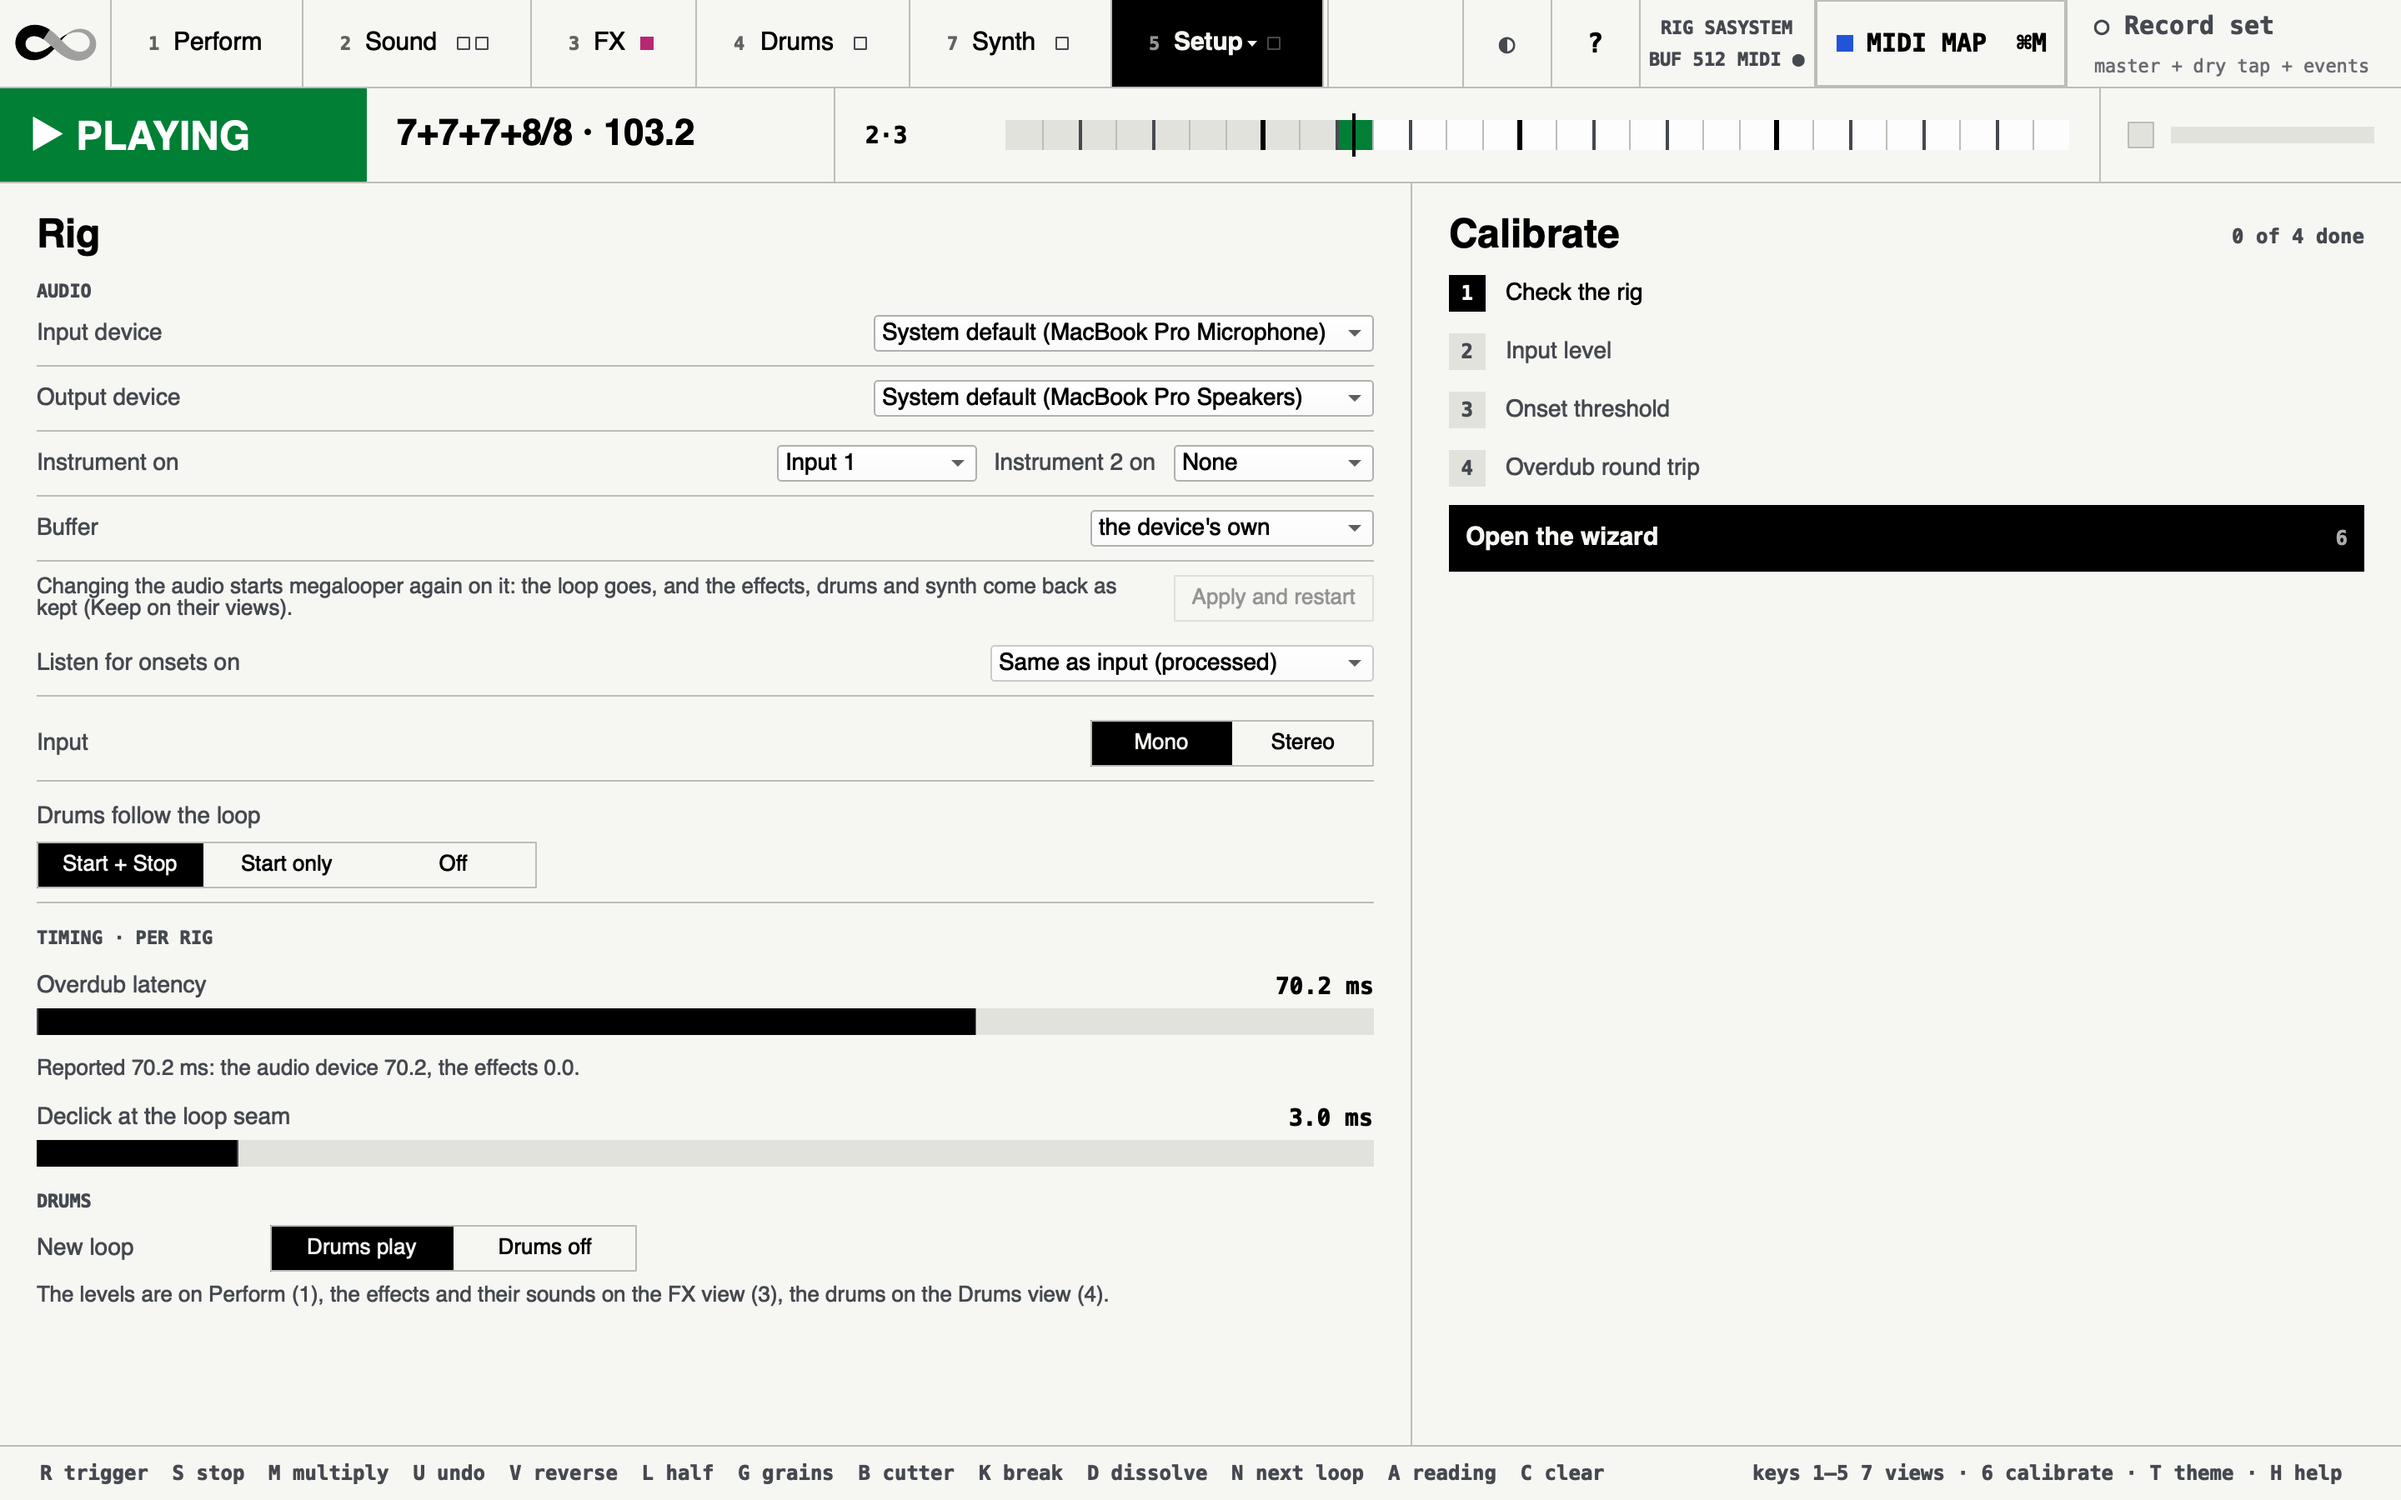
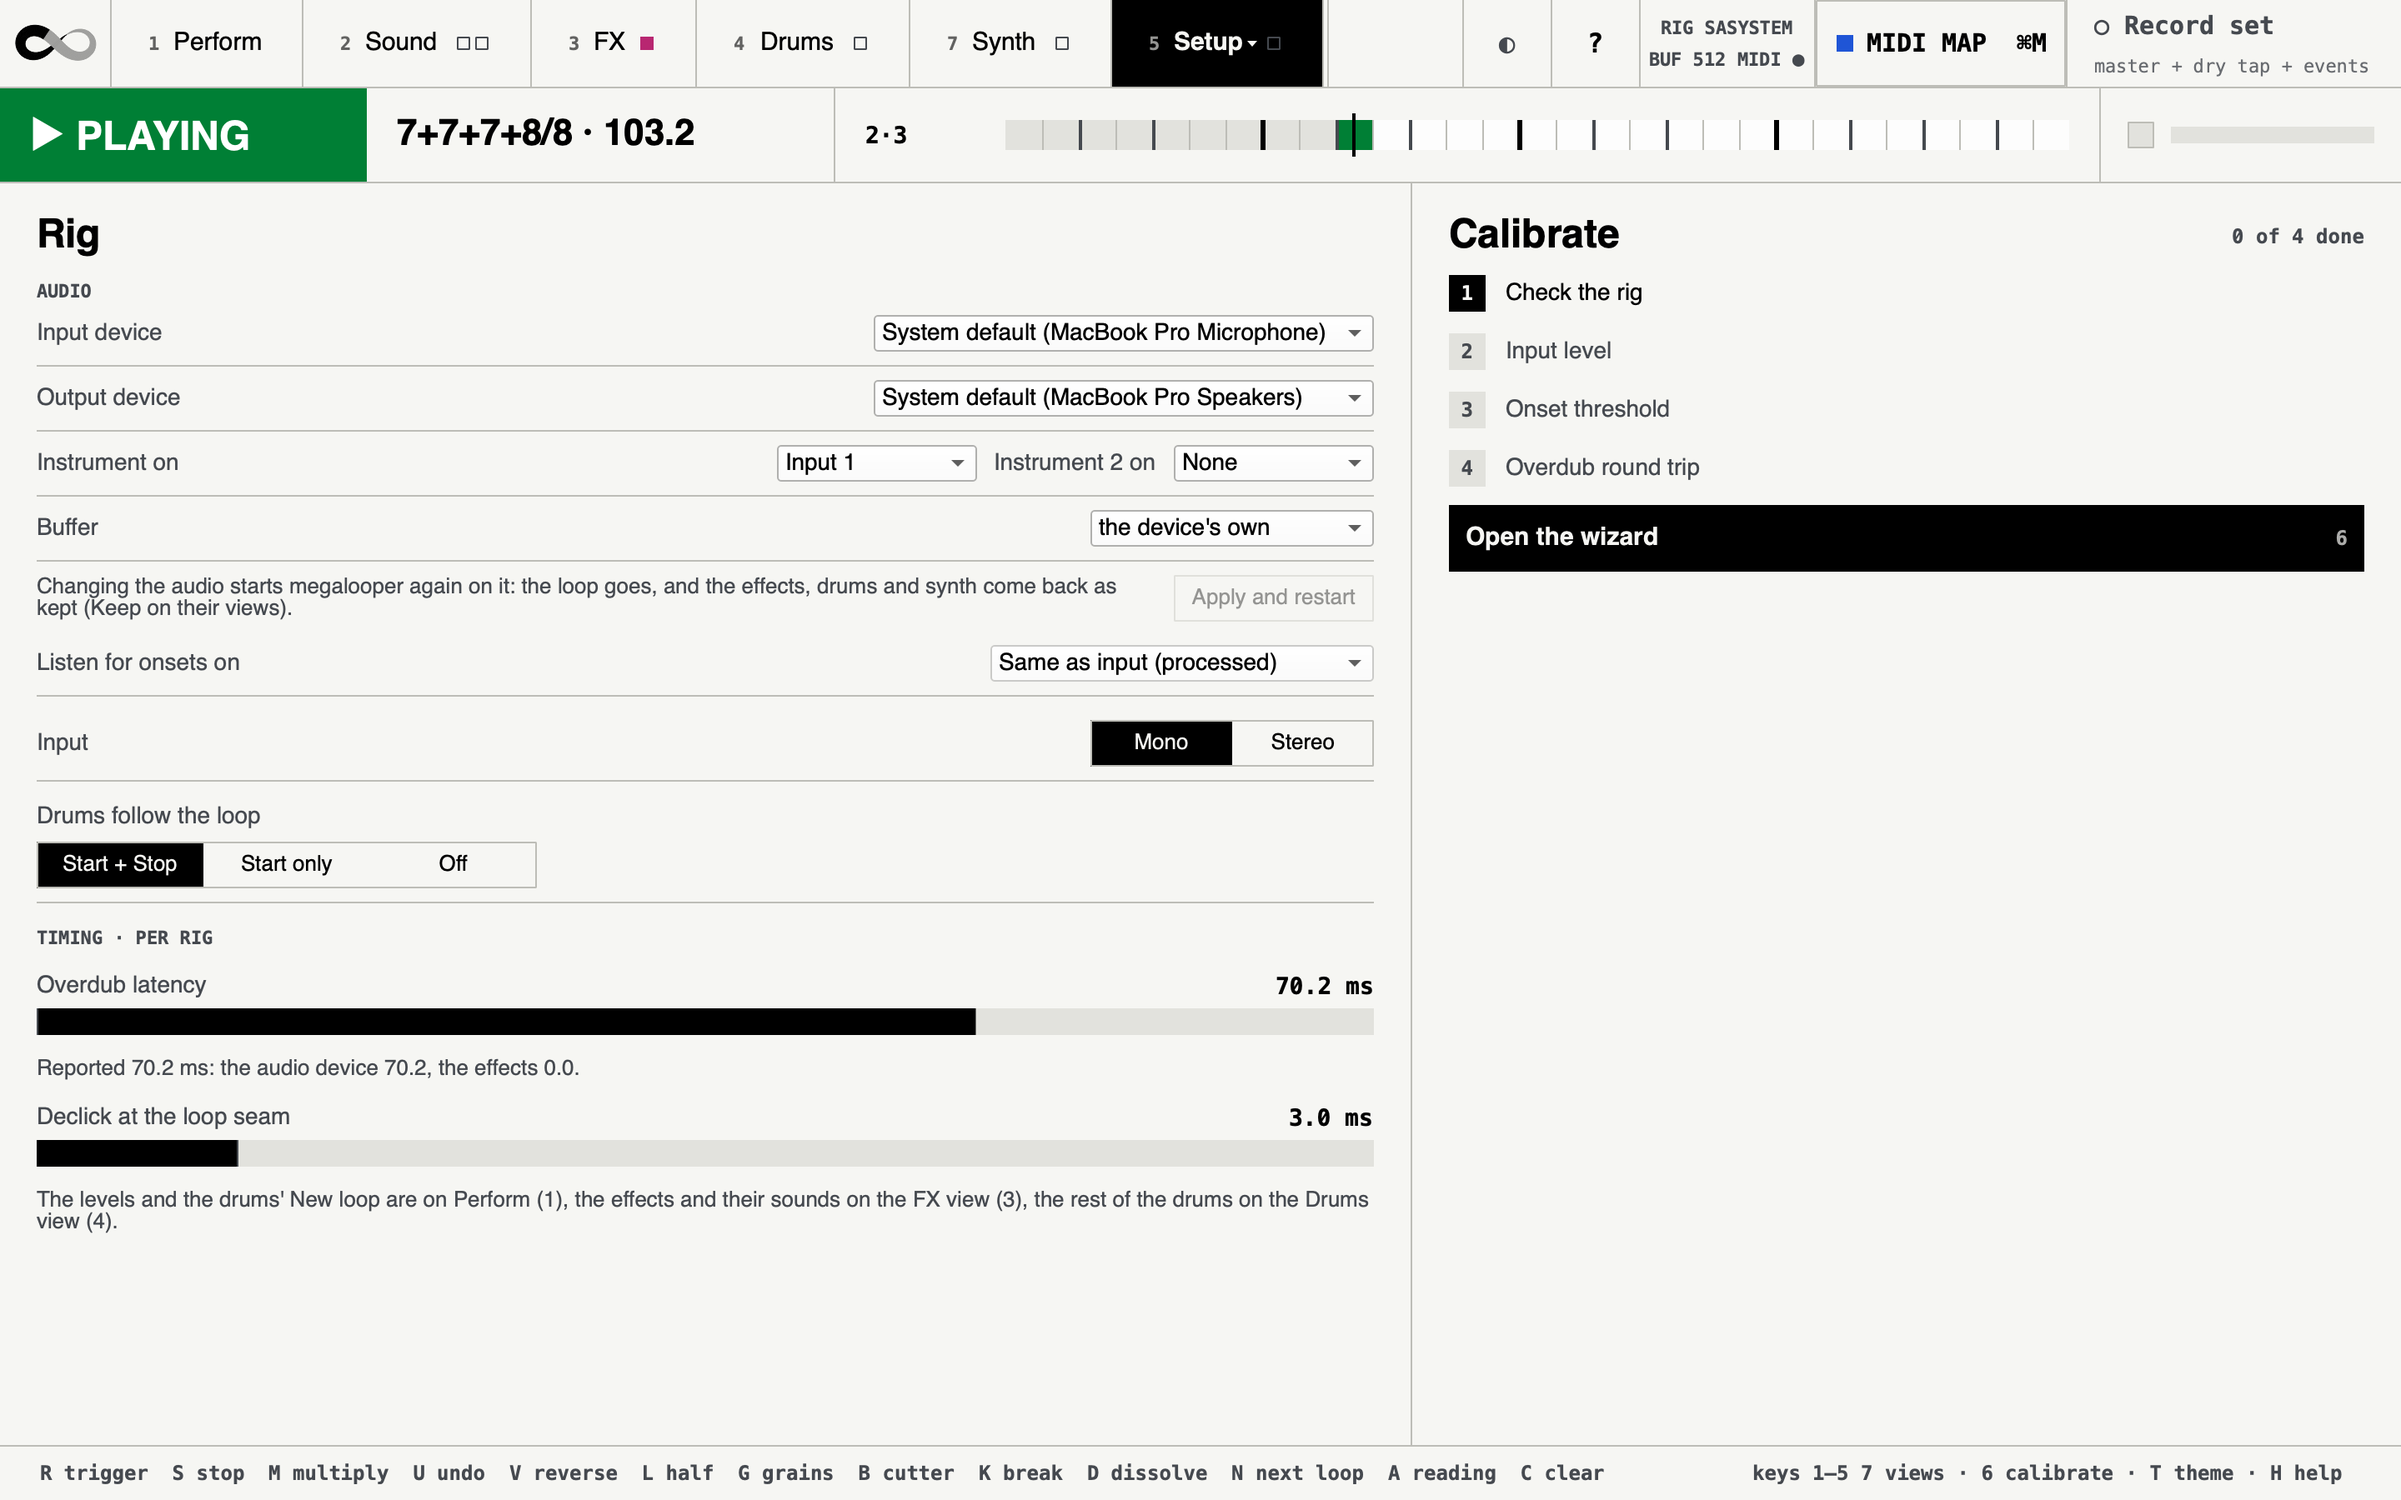
Perform: the drums' New loop switch in the Drums column
What a new loop does to the drums (Play or Off) moves from Setup's Rig
page to Perform's Drums column, where it is reached with an instrument in
the hands. It takes the Pattern row's place, which repeated the tile's
MAIN or BREAK, so the column stays no taller than the Loop column and the
window keeps its size. Setup's Rig page now only says where things are.

Changed region(s): [[0.0, 0.7778, 0.5625, 0.8711]]

diff --git a/docs/manual.md b/docs/manual.md
@@ -530,12 +530,12 @@ Sound, FX, Drums, Synth and Setup) plus Calibrate, and a footer.
 
 | View | Key | What lives there |
 |---|---|---|
-| **Perform** | 1 | A column per layer — **Loop** (forward/reverse, feedback, length, ×2), **Cutter** (on/off, Mix/Insert/Gate, the arc-driven parameter with its tick), **Grains** (on/off, morph, level), **Effects**, **Drums** (on/off, and the onset notes' switch and Chance) and **Synth** (on/off, Cutoff, Position, Random sound) — then the **actions** (Trigger, Stop, Break, Next reading, Dissolve, Rec next loop, Undo, Clear, each with its key and footswitch), Break loops and Dissolve loops, the **macros** (Looper, Arc, Onset) and, under the layers, the **levels** of every strip |
+| **Perform** | 1 | A column per layer — **Loop** (forward/reverse, feedback, length, ×2), **Cutter** (on/off, Mix/Insert/Gate, the arc-driven parameter with its tick), **Grains** (on/off, morph, level), **Effects**, **Drums** (on/off, the kit, **New loop**, and the onset notes' switch and Chance) and **Synth** (on/off, Cutoff, Position, Random sound) — then the **actions** (Trigger, Stop, Break, Next reading, Dissolve, Rec next loop, Undo, Clear, each with its key and footswitch), Break loops and Dissolve loops, the **macros** (Looper, Arc, Onset) and, under the layers, the **levels** of every strip |
 | **Sound** | 2 | The **Cutter** (preset, voices, procedure, cut synth, ratio, parameters, level, pan, voice effects) beside the **Grains** (preset, Blend, Pitch, Grain, Read position, grain window) |
 | **FX** | 3 | The **effects** chains (click a block to edit it, its square to switch it) and their sounds |
 | **Drums** | 4 | The **drums** (step sequencer, timing, kits, mix) |
 | **Synth** | 7 | The note sequencer, the Wave synth or a VST instrument, and their presets ([The synth](synth.md)) |
-| **Setup** | 5 | Three pages, picked from the menu its tab opens (key **5** again: the next page). **Rig**: profile, device, analysis input, input, Drums follow the loop, the timing bars and New loop, and **Calibrate** (where the wizard is) beside them · **Analysis**: monitor, counts, threshold, onset notes, pitch, fallback meter, bars by hand, export · **MIDI & AI**: the MIDI map, **MIDI in**, **AI apps** ([AI apps](ai.md)) and Record set's **Log every action** ([Every action](#every-action)) |
+| **Setup** | 5 | Three pages, picked from the menu its tab opens (key **5** again: the next page). **Rig**: profile, device, analysis input, input, Drums follow the loop and the timing bars, and **Calibrate** (where the wizard is) beside them · **Analysis**: monitor, counts, threshold, onset notes, pitch, fallback meter, bars by hand, export · **MIDI & AI**: the MIDI map, **MIDI in**, **AI apps** ([AI apps](ai.md)) and Record set's **Log every action** ([Every action](#every-action)) |
 | **Calibrate** | 6 | The wizard, step by step; Esc goes back to Setup's Rig page |
 
 ![The Sound view](images/sound.png)
@@ -595,6 +595,11 @@ The controls, by view:
     stops.
   - *Start only*: they start with the loop and play on after a stop.
   - *Off*: they do not start with the loop; switch them on yourself.
+- **New loop** *(Perform's Drums column)* — what the drums do when you record
+  a new loop. *Play* (default): they start with it. *Off*: they keep time but
+  stay silent until you switch them on, with the tile above it or their
+  footswitch. Overdubs leave them as they are. megalooper keeps the choice for
+  the next start.
 - **Input** *(Setup › Rig)* — *Mono* or *Stereo*; the profile's
   `inChannelCount` sets it at boot (saSystem: Stereo). Stereo records both
   sides of the instrument chain, so its stereo effects reach the loop. Mono
@@ -1569,7 +1574,7 @@ megalooper/
     gui-synth.scd        -- Synth: the note sequencer and the Wave synth
     gui-analysis.scd     -- Analysis (Setup): monitor feed, counts, onset notes, export
     gui-rig.scd          -- Rig (Setup): routing, timing, the MIDI map
-    gui-sa.scd           -- the mixer's levels (Perform) and New loop (Setup › Rig)
+    gui-sa.scd           -- the mixer's levels (Perform)
     gui-midimap.scd      -- the MIDI map section: inputs, maps, bindings, learning
     gui-mapmode.scd      -- MIDI Map mode: the MIDI MAP button, masks, the map bar
     gui-calibrate.scd    -- the Calibrate wizard, and its summary on Setup

diff --git a/docs/drums.md b/docs/drums.md
@@ -10,11 +10,12 @@ megalooper has two drum parts, on the **Drums** view (key **4**):
 Each part plays a **kit**: a set of samples on pads.
 
 The steps start with every new loop you record. To have them wait instead,
-set **New loop** to **Drums off** on the Setup view's Rig page, under
-**Drums**. A new loop then keeps the drums in time but silent, until you switch
-them on: the switch on the Drums view, or a footswitch mapped to it. Overdubs leave
-them as they are. megalooper keeps the choice for the next start. Whether
-they also stop with the loop is **Drums follow the loop**, on the same page.
+set **New loop** to **Off** in the Drums column on Perform. A new loop then
+keeps the drums in time but silent, until you switch them on: the tile at the
+top of that column, the switch on the Drums view, or a footswitch mapped to it.
+Overdubs leave them as they are. megalooper keeps the choice for the next
+start. Whether they also stop with the loop is **Drums follow the loop**, on
+the Setup view's Rig page.
 
 ## Why the drums are hidden at first
 
